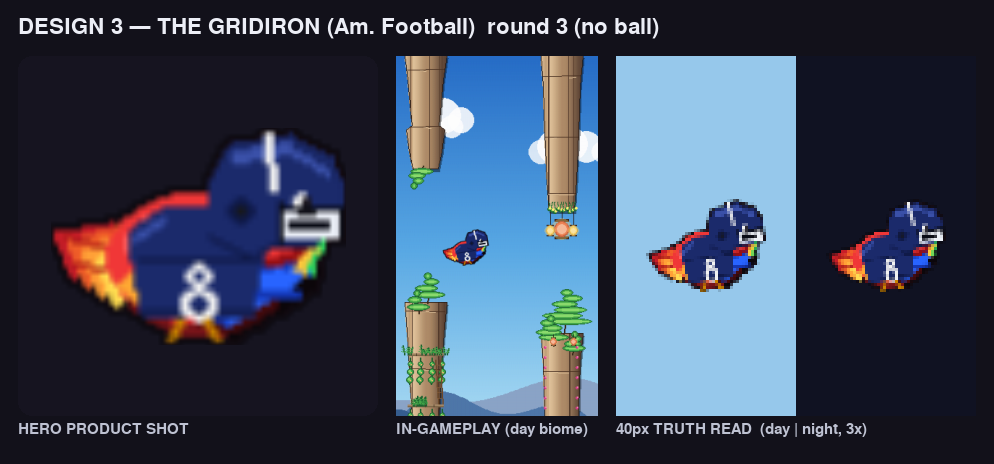
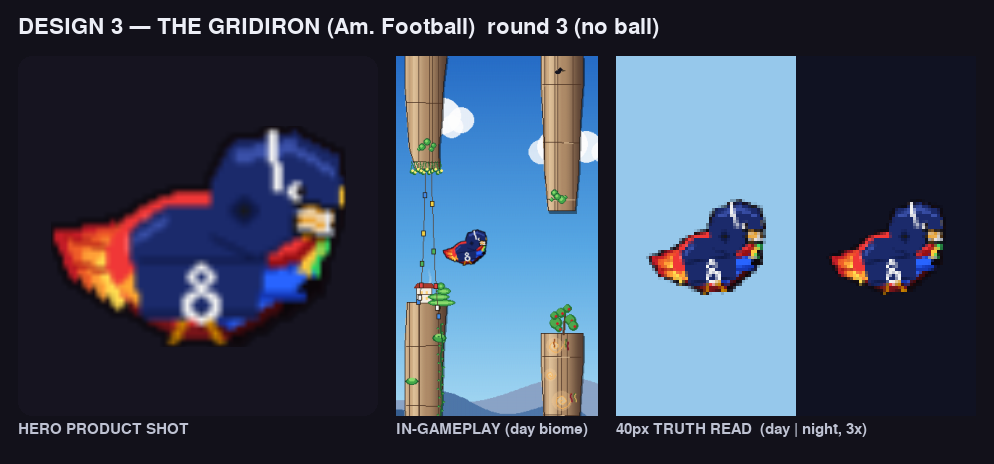
Gridiron R3 facemask fix: open the helmet face so the beak pokes out, clamp a small dark cage over it
The facemask read as a white box beside the head because the shell domed
over the beak, so the cage sat on solid navy. Pull the shell brow above
the beak and sweep the jaw back to leave a face opening; redraw the beak
poking out, then clamp a small near-black cage with thin grey bars over
it so the beak reads through the bars.

Claude-Session: https://claude.ai/code/session_01HafGQfRZVDiGkQqpJPr5Cm

diff --git a/tools/sports_candidates/design_3.py b/tools/sports_candidates/design_3.py
@@ -75,14 +75,15 @@ def _paint(surf, _a):
 
     # ── HELMET — the HERO. A rounded navy SHELL domes over the head (rising above
     #    CROWN_Y, the only element allowed to), three-valued so the curve reads as a
-    #    hard shell. The shell brow drops to a JAW that sweeps forward past the cheek
-    #    to meet the cage, so the facemask reads as bolted to the shell, not floating.
+    #    hard shell. Crucially the shell BROW stops ABOVE the beak and the jaw sweeps
+    #    BACK to the throat — leaving a FACE OPENING where the beak pokes out, exactly
+    #    where a real helmet frames the face. The cage then clamps over that open beak.
     hcx, hcy = HX + 1, HY - 2
-    # Shell mass: domed top + a jaw that sweeps DOWN-AND-FORWARD to the cheek so the
-    # cage bolts onto solid shell (never hanging in open air). Shadow underlay first.
+    # Shell mass: domed top, a brow that ends above the beak (hcx+13, hcy+2), then the
+    # jaw curves DOWN-AND-BACK to the throat so the beak/lower-face stays uncovered.
     shell = [(hcx - 12, hcy + 8), (hcx - 13, hcy - 3), (hcx - 8, hcy - 12),
-             (hcx + 4, hcy - 14), (hcx + 13, hcy - 9), (hcx + 16, hcy - 2),
-             (hcx + 15, hcy + 4), (hcx + 9, hcy + 9), (hcx + 1, hcy + 9),
+             (hcx + 4, hcy - 14), (hcx + 13, hcy - 9), (hcx + 14, hcy - 4),
+             (hcx + 13, hcy + 2), (hcx + 7, hcy + 6), (hcx, hcy + 10),
              (hcx - 4, hcy + 12)]
     _poly(surf, _GR_NAVY_D, [(x, y + 1) for x, y in shell])
     _poly(surf, _GR_NAVY, shell)
@@ -95,42 +96,40 @@ def _paint(surf, _a):
     pygame.draw.circle(surf, _GR_NAVY_D, (hcx - 6, hcy + 3), 3)
     pygame.draw.circle(surf, _GR_BLACK, (hcx - 6, hcy + 3), 1)
 
-    # ── A hint of Pip behind the mask: the near eye showing UNDER the shell brow and
-    #    ABOVE the cage, so the parrot stays legible and the player reads "athlete."
-    #    Drawn BEFORE the cage so the lower bars read as passing in front of the face.
-    ex, ey = hcx + 7, hcy + 1
+    # ── FACE in the helmet opening: redraw the BEAK so it clearly pokes out of the
+    #    shell brow (the base beak may be partly painted over), plus the eye just under
+    #    the brow. The beak is what the cage clamps over, so it must read first.
+    # Beak (composite of base beak_pts shifted +PARROT_DY): a small hooked horn poking
+    # right out of the face opening.
+    beak = [(hcx + 7, hcy + 1), (hcx + 13, hcy + 4), (hcx + 10, hcy + 8),
+            (hcx + 4, hcy + 6)]
+    _poly(surf, (236, 168, 58), beak)                 # warm beak so it reads as face
+    pygame.draw.polygon(surf, (150, 96, 24), beak, 1)
+    # Eye just under the brow, above the beak — the hint of Pip.
+    ex, ey = hcx + 5, hcy - 1
     pygame.draw.circle(surf, _GR_WHITE, (ex, ey), 2)
     pygame.draw.circle(surf, (30, 26, 34), (ex + 1, ey), 1)
-
-    # ── FACEMASK — a DARK-FRAMED CAGE wrapping the FRONT of the face OVER THE BEAK:
-    #    the hero gridiron tell. It hangs from the shell jaw and reaches forward across
-    #    the beak, so it reads as "a cage on the face," not a box beside the head.
-    #    Read recipe at 40px: a solid near-black frame field (the cage shadow + the
-    #    dark gaps that DEFINE a facemask) with TWO clearly-horizontal bright bars +
-    #    ONE vertical post laid across it. Kept boldly horizontal so the bars never
-    #    tangle into a hook at the downscale.
-    # Cage field: a near-black trapezoid SEATED on the forward shell face, hung under
-    # the brow and reaching forward across the beak. It stays INSIDE the shell jaw so
-    # it never floats in open air. The beak pokes into the open lower gap → "cage on
-    # the face." Slightly taller at the back (cheek) so it follows the face line.
-    cheek_x, beak_x = hcx + 3, hcx + 15     # cage rides the shell face, over the beak
-    top_y, bot_y = hcy + 2, hcy + 9
-    field = [(cheek_x - 1, top_y - 1), (beak_x, top_y),
-             (beak_x, bot_y - 1), (cheek_x - 1, bot_y)]
-    pygame.draw.polygon(surf, _GR_FRAME, field)
-    # TWO bright, clearly-horizontal bars spanning the full cage width with a dark gap
-    # between — the unmistakable facemask read. Upper bar sits just under the eye; the
-    # lower bar crosses the front of the beak.
-    pygame.draw.line(surf, _GR_MASK, (cheek_x, top_y + 1), (beak_x - 1, top_y + 1), 2)
-    pygame.draw.line(surf, _GR_MASK, (cheek_x, bot_y - 2), (beak_x - 1, bot_y - 2), 2)
-    # ONE vertical post near the beak tip tying the bars; the dark field shows through
-    # as the cage gaps either side of it.
-    pygame.draw.line(surf, _GR_MASK, (beak_x - 2, top_y + 1), (beak_x - 2, bot_y - 1), 2)
-    # A short back post at the cheek where the cage bolts to the shell — sells "attached
-    # to the helmet," not floating.
-    pygame.draw.line(surf, _GR_MASK, (cheek_x, top_y + 1), (cheek_x, bot_y - 1), 1)
-    # EYE-BLACK smudge just under the showing eye — the athlete tell, kept off the cage.
+    # EYE-BLACK smudge just under the eye — the athlete tell.
     pygame.draw.line(surf, _GR_BLACK, (ex - 1, ey + 2), (ex + 2, ey + 2), 1)
+
+    # ── FACEMASK — a SMALL CAGE clamped over the BEAK, the hero gridiron tell. It is
+    #    sized to the beak so the beak reads THROUGH the bars (cage on the face), never
+    #    a box beside the head. Mostly DARK FRAME: a thin near-black ring with SHORT
+    #    thin grey bars; the bright fill is killed so the dark gaps read as the cage.
+    #    Bars angle down-and-forward to follow the front of the face over the beak.
+    bx0, bx1 = hcx + 5, hcx + 13        # tight to the beak, x≈53..61
+    by0, by1 = hcy + 1, hcy + 8         # over the beak body, y≈40..47
+    # Thin near-black perimeter ring tight to the beak (NOT a filled block) so the beak
+    # reads through the open interior.
+    pygame.draw.lines(surf, _GR_FRAME, True,
+                      [(bx0, by0), (bx1, by0 + 1), (bx1 - 1, by1),
+                       (bx0 - 1, by1 - 1)], 1)
+    # TWO short grey bars across the beak, angled down-and-forward, with a clear dark
+    # gap between — the cage read. Thin (1px) light accents in a dark frame.
+    pygame.draw.line(surf, _GR_MASK, (bx0, by0 + 2), (bx1 - 1, by0 + 3), 1)
+    pygame.draw.line(surf, _GR_MASK, (bx0, by1 - 2), (bx1 - 1, by1 - 1), 1)
+    # ONE short vertical post near the beak tip tying the bars; dark gaps either side.
+    pygame.draw.line(surf, _GR_MASK, (bx1 - 2, by0 + 2), (bx1 - 2, by1 - 1), 1)
 
 
 build = store_skins._make_skin(_paint)
